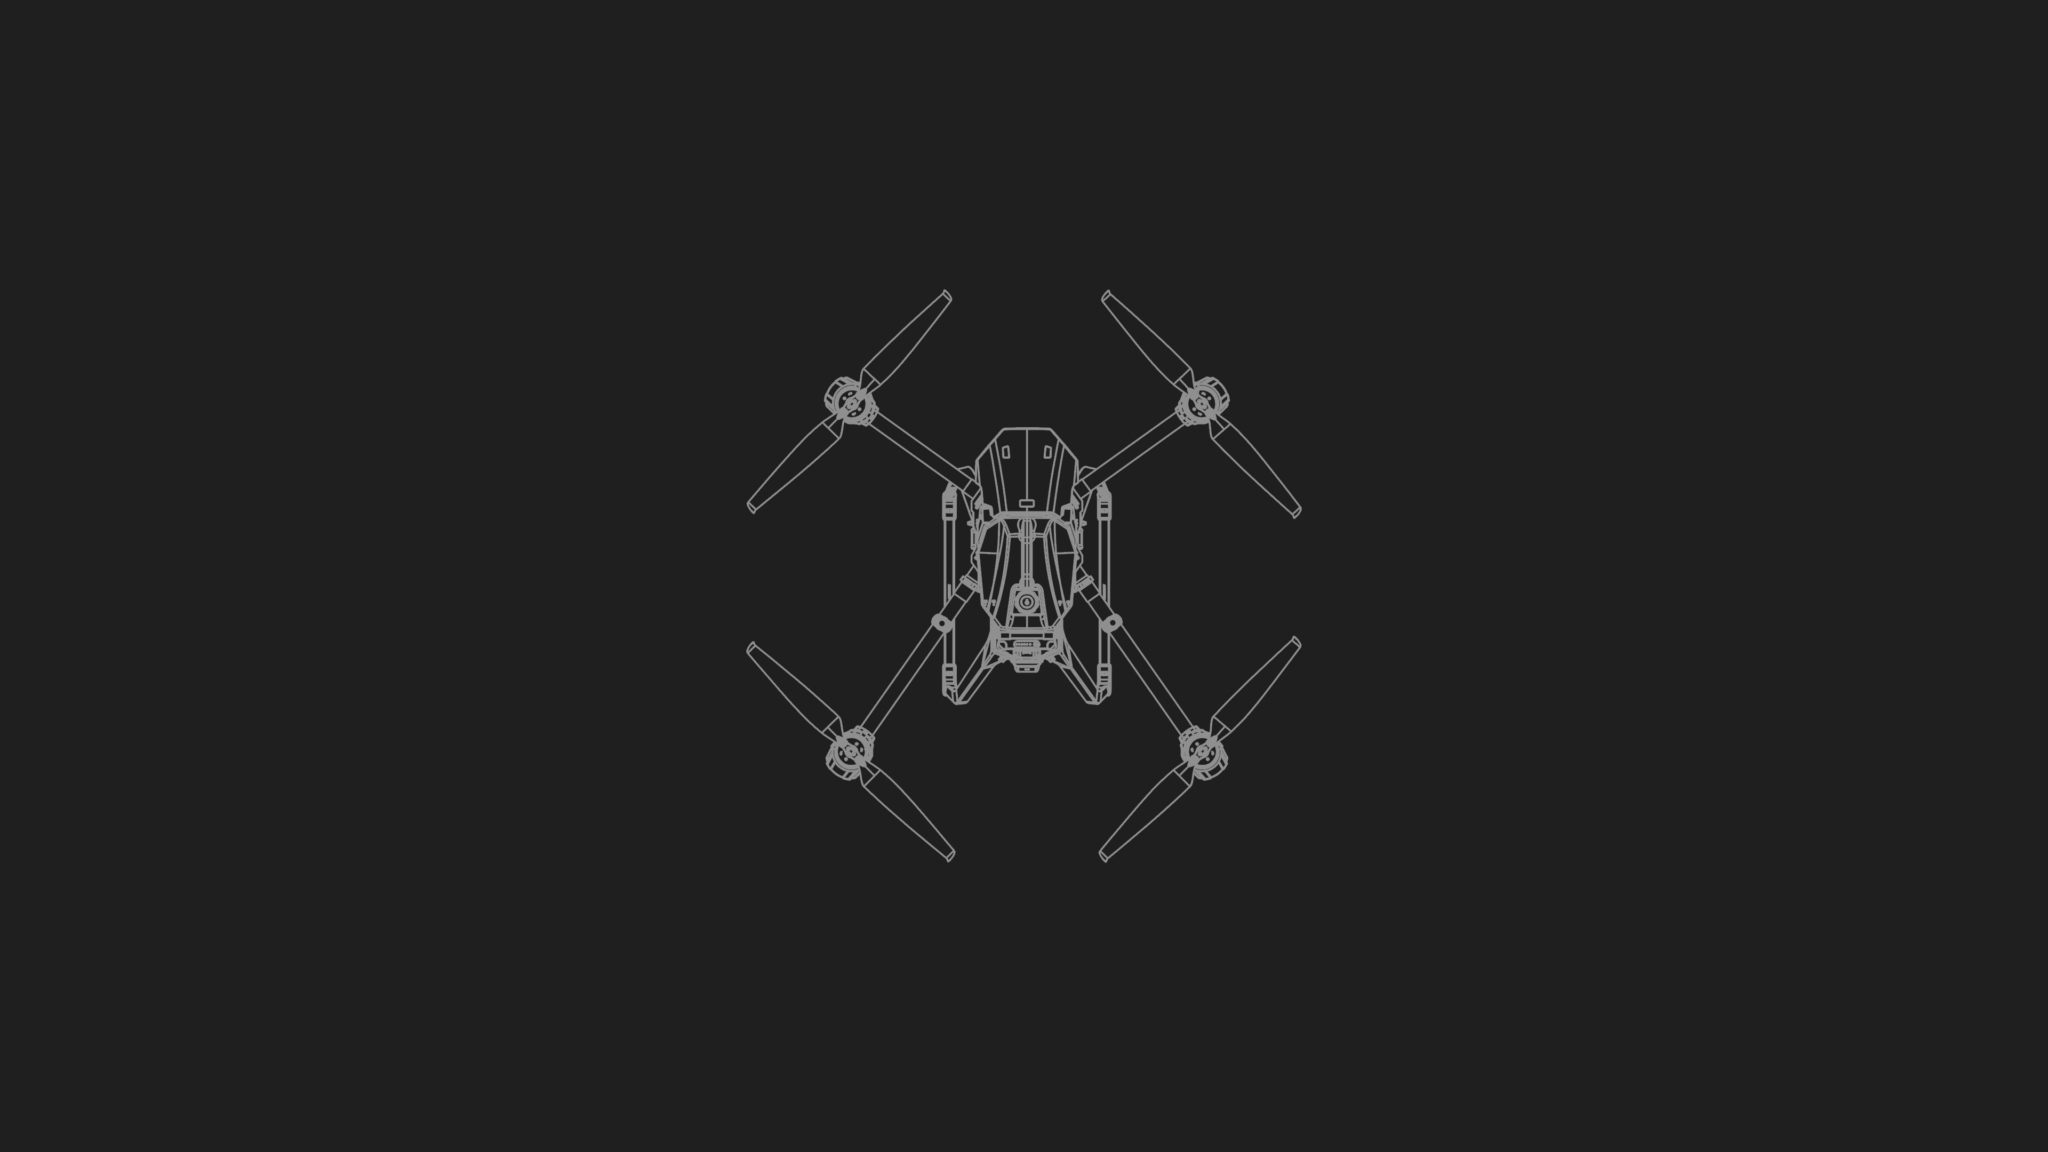
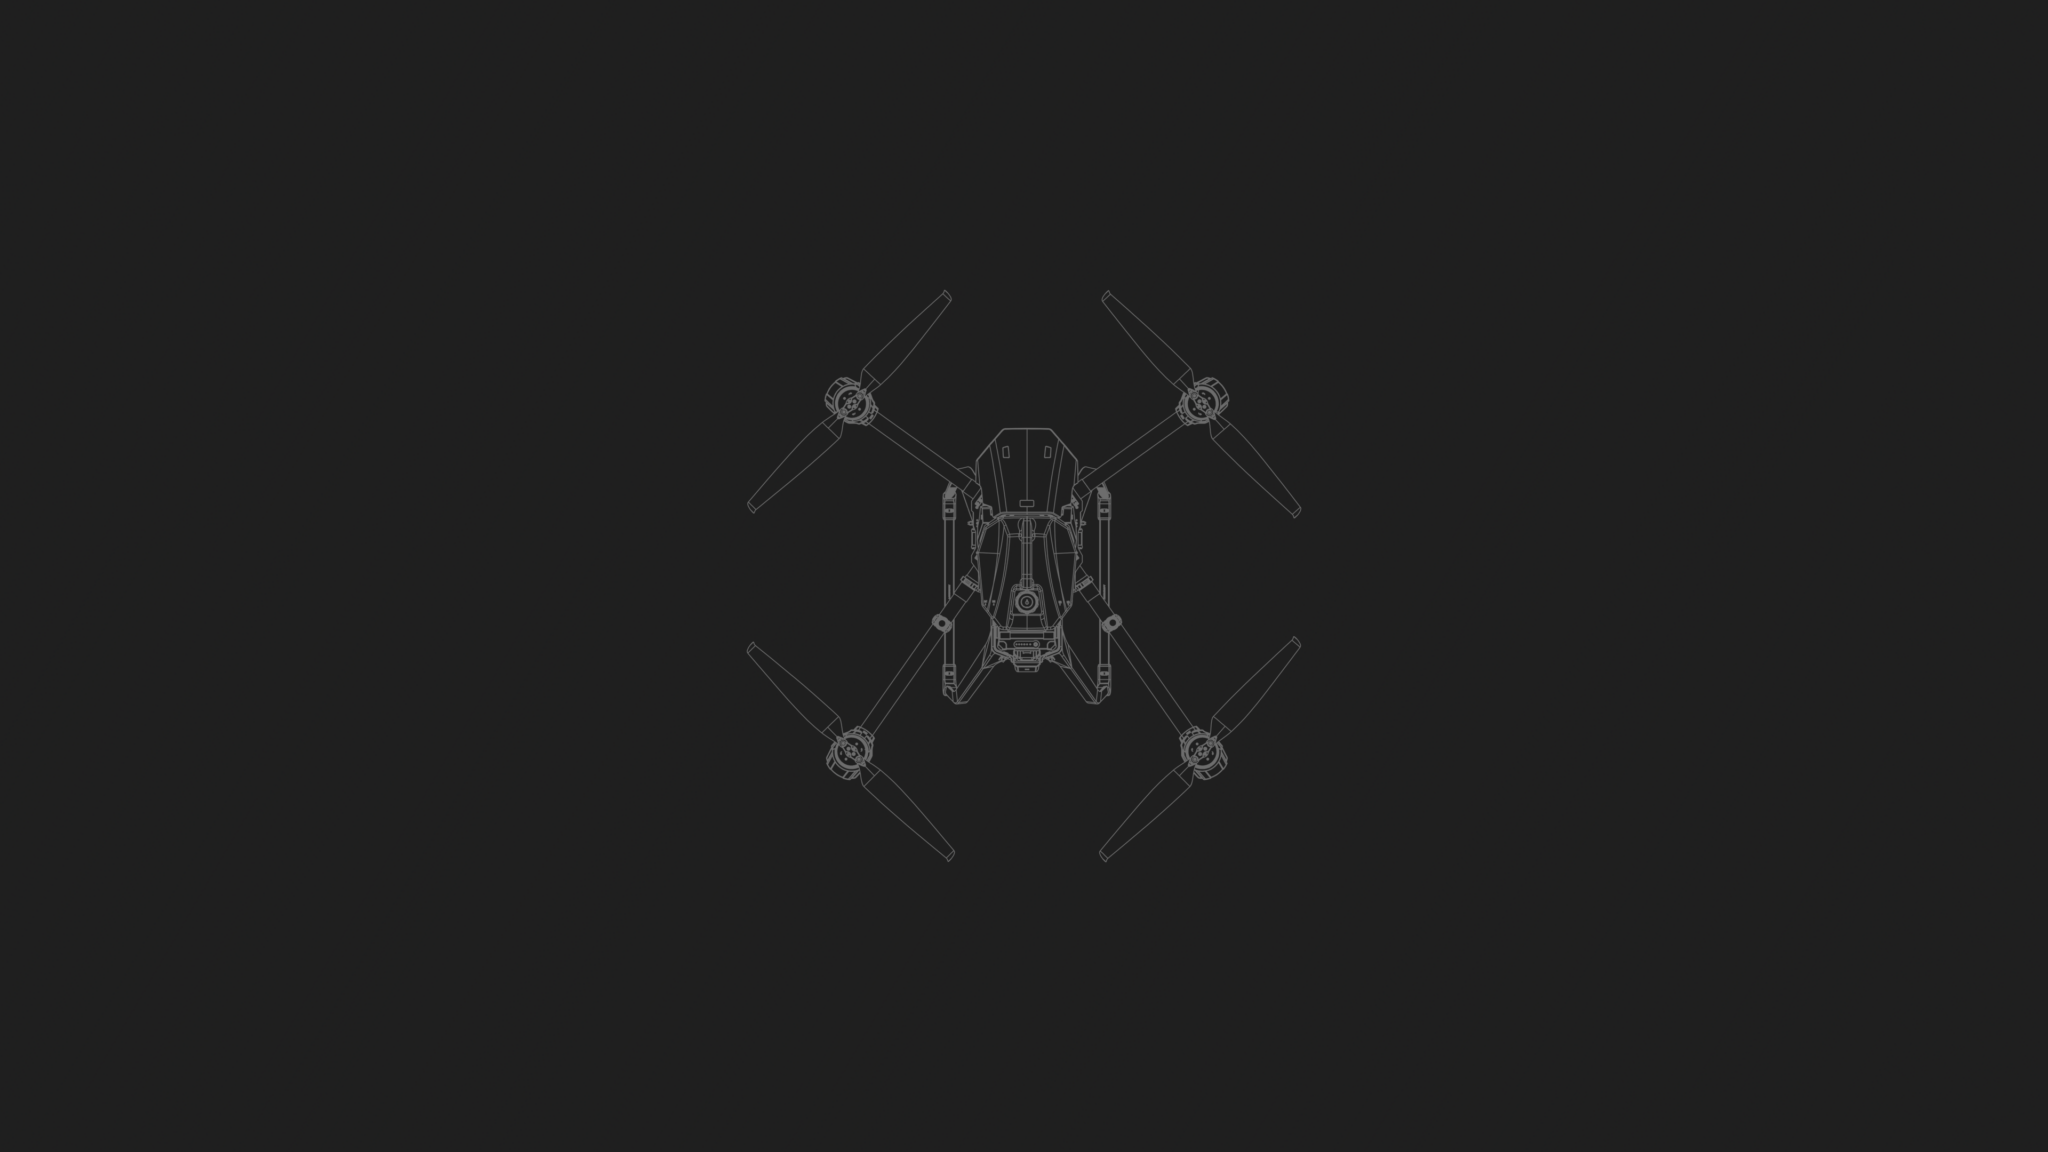
new slide t

diff --git a/wordpress/wp-content/themes/xag-australia/template-parts/content-hero.php b/wordpress/wp-content/themes/xag-australia/template-parts/content-hero.php
@@ -174,7 +174,7 @@ if($techup_enable_banner_section==true ) { ?>
 
 
 		<div data-slidr="two" style="min-width: 100vw; min-height: 100vh;">
-			<section class="hero-sec" style="background: url('http://localhost:8080/wp-content/uploads/2023/07/slide-t.png') no-repeat rgba(0, 0, 0, 0.15); background-size: cover; background-position: center;">
+			<section class="hero-sec" style="background: url('http://localhost:8080/wp-content/uploads/2023/07/slide-t.jpg') no-repeat rgba(0, 0, 0, 0.15); background-size: cover; background-position: center;">
 				<div class="container">
 					<div class="row">
 						<div class="content-sec">
